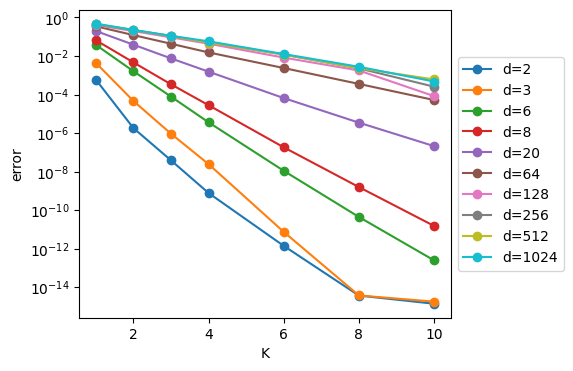
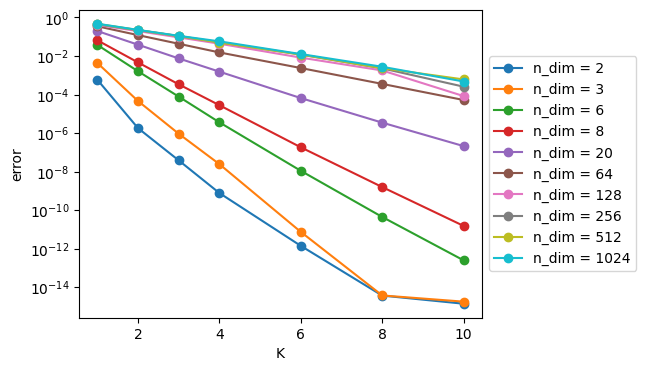
Built site for gh-pages

diff --git a/posts/2023-06-12-RVQ.html b/posts/2023-06-12-RVQ.html
@@ -3223,12 +3223,12 @@ if (outputEl) {{
 <span id="cb25-2"><a href="#cb25-2" aria-hidden="true" tabindex="-1"></a>fig <span class="op">=</span> plot_results(results, d_choices, cb_lengths, K_choices, vary_K<span class="op">=</span><span class="va">True</span>, log_xy<span class="op">=</span><span class="va">True</span>, log_z<span class="op">=</span><span class="va">True</span>, camera<span class="op">=</span>camera)</span>
 <span id="cb25-3"><a href="#cb25-3" aria-hidden="true" tabindex="-1"></a>fig.show()</span>
 <span id="cb25-4"><a href="#cb25-4" aria-hidden="true" tabindex="-1"></a></span>
-<span id="cb25-5"><a href="#cb25-5" aria-hidden="true" tabindex="-1"></a>fig, ax <span class="op">=</span> plt.subplots(figsize<span class="op">=</span>(<span class="dv">6</span>,<span class="dv">4</span>))</span>
+<span id="cb25-5"><a href="#cb25-5" aria-hidden="true" tabindex="-1"></a>fig, ax <span class="op">=</span> plt.subplots(figsize<span class="op">=</span>(<span class="fl">6.5</span>,<span class="dv">4</span>))</span>
 <span id="cb25-6"><a href="#cb25-6" aria-hidden="true" tabindex="-1"></a>ourdata <span class="op">=</span> results[:,<span class="op">-</span><span class="dv">1</span>,:] <span class="co"># max cb_len</span></span>
 <span id="cb25-7"><a href="#cb25-7" aria-hidden="true" tabindex="-1"></a><span class="cf">for</span> q1, d <span class="kw">in</span> <span class="bu">enumerate</span>(d_choices):</span>
 <span id="cb25-8"><a href="#cb25-8" aria-hidden="true" tabindex="-1"></a>    x <span class="op">=</span> np.array(K_choices)</span>
 <span id="cb25-9"><a href="#cb25-9" aria-hidden="true" tabindex="-1"></a>    y <span class="op">=</span> ourdata[q1]</span>
-<span id="cb25-10"><a href="#cb25-10" aria-hidden="true" tabindex="-1"></a>    ax.semilogy(x,y,<span class="st">'o-'</span>,label<span class="op">=</span><span class="ss">f"d=</span><span class="sc">{</span>d<span class="sc">}</span><span class="ss">"</span>)</span>
+<span id="cb25-10"><a href="#cb25-10" aria-hidden="true" tabindex="-1"></a>    ax.semilogy(x,y,<span class="st">'o-'</span>,label<span class="op">=</span><span class="ss">f"n_dim = </span><span class="sc">{</span>d<span class="sc">}</span><span class="ss">"</span>)</span>
 <span id="cb25-11"><a href="#cb25-11" aria-hidden="true" tabindex="-1"></a>    </span>
 <span id="cb25-12"><a href="#cb25-12" aria-hidden="true" tabindex="-1"></a>box <span class="op">=</span> ax.get_position()</span>
 <span id="cb25-13"><a href="#cb25-13" aria-hidden="true" tabindex="-1"></a>ax.set_position([box.x0, box.y0, box.width <span class="op">*</span> <span class="fl">0.8</span>, box.height])</span>
@@ -3243,9 +3243,9 @@ if (outputEl) {{
 <div id="fig-rvq-error-logz-varyk-1" class="quarto-figure quarto-figure-center anchored" style="flex-basis: 100.0%;justify-content: center;">
 <figure class="figure">
 
-<div>                            <div id="35af40aa-9de7-4355-9d39-2c97faacfc55" class="plotly-graph-div" style="height:400px; width:750px;"></div>            <script type="text/javascript">                require(["plotly"], function(Plotly) {                    window.PLOTLYENV=window.PLOTLYENV || {};                                    if (document.getElementById("35af40aa-9de7-4355-9d39-2c97faacfc55")) {                    Plotly.newPlot(                        "35af40aa-9de7-4355-9d39-2c97faacfc55",                        [{"x":[[1,2,3,4,6,8,10],[1,2,3,4,6,8,10],[1,2,3,4,6,8,10],[1,2,3,4,6,8,10],[1,2,3,4,6,8,10],[1,2,3,4,6,8,10],[1,2,3,4,6,8,10],[1,2,3,4,6,8,10],[1,2,3,4,6,8,10],[1,2,3,4,6,8,10]],"y":[[0.3010299956639812,0.3010299956639812,0.3010299956639812,0.3010299956639812,0.3010299956639812,0.3010299956639812,0.3010299956639812],[0.47712125471966244,0.47712125471966244,0.47712125471966244,0.47712125471966244,0.47712125471966244,0.47712125471966244,0.47712125471966244],[0.7781512503836436,0.7781512503836436,0.7781512503836436,0.7781512503836436,0.7781512503836436,0.7781512503836436,0.7781512503836436],[0.9030899869919435,0.9030899869919435,0.9030899869919435,0.9030899869919435,0.9030899869919435,0.9030899869919435,0.9030899869919435],[1.3010299956639813,1.3010299956639813,1.3010299956639813,1.3010299956639813,1.3010299956639813,1.3010299956639813,1.3010299956639813],[1.806179973983887,1.806179973983887,1.806179973983887,1.806179973983887,1.806179973983887,1.806179973983887,1.806179973983887],[2.1072099696478683,2.1072099696478683,2.1072099696478683,2.1072099696478683,2.1072099696478683,2.1072099696478683,2.1072099696478683],[2.4082399653118496,2.4082399653118496,2.4082399653118496,2.4082399653118496,2.4082399653118496,2.4082399653118496,2.4082399653118496],[2.709269960975831,2.709269960975831,2.709269960975831,2.709269960975831,2.709269960975831,2.709269960975831,2.709269960975831],[3.010299956639812,3.010299956639812,3.010299956639812,3.010299956639812,3.010299956639812,3.010299956639812,3.010299956639812]],"z":[[-3.224405,-5.73846,-7.4118648,-9.106539,-11.846527,-14.425459,-14.848204],[-2.3546593,-4.3316574,-6.0297394,-7.607898,-11.1222725,-14.419368,-14.740961],[-1.4203463,-2.7881258,-4.1049337,-5.4392023,-7.9532456,-10.347302,-12.598212],[-1.1800427,-2.330022,-3.4667091,-4.550867,-6.73431,-8.7964945,-10.812202],[-0.70073026,-1.4105304,-2.12281,-2.810377,-4.1804338,-5.4548035,-6.6720243],[-0.4546547,-0.9143086,-1.3624536,-1.8124374,-2.6217163,-3.4454503,-4.280762],[-0.3907326,-0.7049824,-1.0309411,-1.3590288,-2.0810802,-2.7485373,-4.0779834],[-0.35315803,-0.6559364,-0.96061885,-1.2852163,-1.9224304,-2.6384947,-3.5889297],[-0.33344215,-0.65092665,-0.96849597,-1.2986574,-1.923794,-2.6294942,-3.2139428],[-0.3232545,-0.64443374,-0.9511528,-1.237851,-1.8978,-2.5570276,-3.3207188]],"type":"surface"}],                        {"template":{"data":{"barpolar":[{"marker":{"line":{"color":"rgb(17,17,17)","width":0.5},"pattern":{"fillmode":"overlay","size":10,"solidity":0.2}},"type":"barpolar"}],"bar":[{"error_x":{"color":"#f2f5fa"},"error_y":{"color":"#f2f5fa"},"marker":{"line":{"color":"rgb(17,17,17)","width":0.5},"pattern":{"fillmode":"overlay","size":10,"solidity":0.2}},"type":"bar"}],"carpet":[{"aaxis":{"endlinecolor":"#A2B1C6","gridcolor":"#506784","linecolor":"#506784","minorgridcolor":"#506784","startlinecolor":"#A2B1C6"},"baxis":{"endlinecolor":"#A2B1C6","gridcolor":"#506784","linecolor":"#506784","minorgridcolor":"#506784","startlinecolor":"#A2B1C6"},"type":"carpet"}],"choropleth":[{"colorbar":{"outlinewidth":0,"ticks":""},"type":"choropleth"}],"contourcarpet":[{"colorbar":{"outlinewidth":0,"ticks":""},"type":"contourcarpet"}],"contour":[{"colorbar":{"outlinewidth":0,"ticks":""},"colorscale":[[0.0,"#0d0887"],[0.1111111111111111,"#46039f"],[0.2222222222222222,"#7201a8"],[0.3333333333333333,"#9c179e"],[0.4444444444444444,"#bd3786"],[0.5555555555555556,"#d8576b"],[0.6666666666666666,"#ed7953"],[0.7777777777777778,"#fb9f3a"],[0.8888888888888888,"#fdca26"],[1.0,"#f0f921"]],"type":"contour"}],"heatmapgl":[{"colorbar":{"outlinewidth":0,"ticks":""},"colorscale":[[0.0,"#0d0887"],[0.1111111111111111,"#46039f"],[0.2222222222222222,"#7201a8"],[0.3333333333333333,"#9c179e"],[0.4444444444444444,"#bd3786"],[0.5555555555555556,"#d8576b"],[0.6666666666666666,"#ed7953"],[0.7777777777777778,"#fb9f3a"],[0.8888888888888888,"#fdca26"],[1.0,"#f0f921"]],"type":"heatmapgl"}],"heatmap":[{"colorbar":{"outlinewidth":0,"ticks":""},"colorscale":[[0.0,"#0d0887"],[0.1111111111111111,"#46039f"],[0.2222222222222222,"#7201a8"],[0.3333333333333333,"#9c179e"],[0.4444444444444444,"#bd3786"],[0.5555555555555556,"#d8576b"],[0.6666666666666666,"#ed7953"],[0.7777777777777778,"#fb9f3a"],[0.8888888888888888,"#fdca26"],[1.0,"#f0f921"]],"type":"heatmap"}],"histogram2dcontour":[{"colorbar":{"outlinewidth":0,"ticks":""},"colorscale":[[0.0,"#0d0887"],[0.1111111111111111,"#46039f"],[0.2222222222222222,"#7201a8"],[0.3333333333333333,"#9c179e"],[0.4444444444444444,"#bd3786"],[0.5555555555555556,"#d8576b"],[0.6666666666666666,"#ed7953"],[0.7777777777777778,"#fb9f3a"],[0.8888888888888888,"#fdca26"],[1.0,"#f0f921"]],"type":"histogram2dcontour"}],"histogram2d":[{"colorbar":{"outlinewidth":0,"ticks":""},"colorscale":[[0.0,"#0d0887"],[0.1111111111111111,"#46039f"],[0.2222222222222222,"#7201a8"],[0.3333333333333333,"#9c179e"],[0.4444444444444444,"#bd3786"],[0.5555555555555556,"#d8576b"],[0.6666666666666666,"#ed7953"],[0.7777777777777778,"#fb9f3a"],[0.8888888888888888,"#fdca26"],[1.0,"#f0f921"]],"type":"histogram2d"}],"histogram":[{"marker":{"pattern":{"fillmode":"overlay","size":10,"solidity":0.2}},"type":"histogram"}],"mesh3d":[{"colorbar":{"outlinewidth":0,"ticks":""},"type":"mesh3d"}],"parcoords":[{"line":{"colorbar":{"outlinewidth":0,"ticks":""}},"type":"parcoords"}],"pie":[{"automargin":true,"type":"pie"}],"scatter3d":[{"line":{"colorbar":{"outlinewidth":0,"ticks":""}},"marker":{"colorbar":{"outlinewidth":0,"ticks":""}},"type":"scatter3d"}],"scattercarpet":[{"marker":{"colorbar":{"outlinewidth":0,"ticks":""}},"type":"scattercarpet"}],"scattergeo":[{"marker":{"colorbar":{"outlinewidth":0,"ticks":""}},"type":"scattergeo"}],"scattergl":[{"marker":{"line":{"color":"#283442"}},"type":"scattergl"}],"scattermapbox":[{"marker":{"colorbar":{"outlinewidth":0,"ticks":""}},"type":"scattermapbox"}],"scatterpolargl":[{"marker":{"colorbar":{"outlinewidth":0,"ticks":""}},"type":"scatterpolargl"}],"scatterpolar":[{"marker":{"colorbar":{"outlinewidth":0,"ticks":""}},"type":"scatterpolar"}],"scatter":[{"marker":{"line":{"color":"#283442"}},"type":"scatter"}],"scatterternary":[{"marker":{"colorbar":{"outlinewidth":0,"ticks":""}},"type":"scatterternary"}],"surface":[{"colorbar":{"outlinewidth":0,"ticks":""},"colorscale":[[0.0,"#0d0887"],[0.1111111111111111,"#46039f"],[0.2222222222222222,"#7201a8"],[0.3333333333333333,"#9c179e"],[0.4444444444444444,"#bd3786"],[0.5555555555555556,"#d8576b"],[0.6666666666666666,"#ed7953"],[0.7777777777777778,"#fb9f3a"],[0.8888888888888888,"#fdca26"],[1.0,"#f0f921"]],"type":"surface"}],"table":[{"cells":{"fill":{"color":"#506784"},"line":{"color":"rgb(17,17,17)"}},"header":{"fill":{"color":"#2a3f5f"},"line":{"color":"rgb(17,17,17)"}},"type":"table"}]},"layout":{"annotationdefaults":{"arrowcolor":"#f2f5fa","arrowhead":0,"arrowwidth":1},"autotypenumbers":"strict","coloraxis":{"colorbar":{"outlinewidth":0,"ticks":""}},"colorscale":{"diverging":[[0,"#8e0152"],[0.1,"#c51b7d"],[0.2,"#de77ae"],[0.3,"#f1b6da"],[0.4,"#fde0ef"],[0.5,"#f7f7f7"],[0.6,"#e6f5d0"],[0.7,"#b8e186"],[0.8,"#7fbc41"],[0.9,"#4d9221"],[1,"#276419"]],"sequential":[[0.0,"#0d0887"],[0.1111111111111111,"#46039f"],[0.2222222222222222,"#7201a8"],[0.3333333333333333,"#9c179e"],[0.4444444444444444,"#bd3786"],[0.5555555555555556,"#d8576b"],[0.6666666666666666,"#ed7953"],[0.7777777777777778,"#fb9f3a"],[0.8888888888888888,"#fdca26"],[1.0,"#f0f921"]],"sequentialminus":[[0.0,"#0d0887"],[0.1111111111111111,"#46039f"],[0.2222222222222222,"#7201a8"],[0.3333333333333333,"#9c179e"],[0.4444444444444444,"#bd3786"],[0.5555555555555556,"#d8576b"],[0.6666666666666666,"#ed7953"],[0.7777777777777778,"#fb9f3a"],[0.8888888888888888,"#fdca26"],[1.0,"#f0f921"]]},"colorway":["#636efa","#EF553B","#00cc96","#ab63fa","#FFA15A","#19d3f3","#FF6692","#B6E880","#FF97FF","#FECB52"],"font":{"color":"#f2f5fa"},"geo":{"bgcolor":"rgb(17,17,17)","lakecolor":"rgb(17,17,17)","landcolor":"rgb(17,17,17)","showlakes":true,"showland":true,"subunitcolor":"#506784"},"hoverlabel":{"align":"left"},"hovermode":"closest","mapbox":{"style":"dark"},"paper_bgcolor":"rgb(17,17,17)","plot_bgcolor":"rgb(17,17,17)","polar":{"angularaxis":{"gridcolor":"#506784","linecolor":"#506784","ticks":""},"bgcolor":"rgb(17,17,17)","radialaxis":{"gridcolor":"#506784","linecolor":"#506784","ticks":""}},"scene":{"xaxis":{"backgroundcolor":"rgb(17,17,17)","gridcolor":"#506784","gridwidth":2,"linecolor":"#506784","showbackground":true,"ticks":"","zerolinecolor":"#C8D4E3"},"yaxis":{"backgroundcolor":"rgb(17,17,17)","gridcolor":"#506784","gridwidth":2,"linecolor":"#506784","showbackground":true,"ticks":"","zerolinecolor":"#C8D4E3"},"zaxis":{"backgroundcolor":"rgb(17,17,17)","gridcolor":"#506784","gridwidth":2,"linecolor":"#506784","showbackground":true,"ticks":"","zerolinecolor":"#C8D4E3"}},"shapedefaults":{"line":{"color":"#f2f5fa"}},"sliderdefaults":{"bgcolor":"#C8D4E3","bordercolor":"rgb(17,17,17)","borderwidth":1,"tickwidth":0},"ternary":{"aaxis":{"gridcolor":"#506784","linecolor":"#506784","ticks":""},"baxis":{"gridcolor":"#506784","linecolor":"#506784","ticks":""},"bgcolor":"rgb(17,17,17)","caxis":{"gridcolor":"#506784","linecolor":"#506784","ticks":""}},"title":{"x":0.05},"updatemenudefaults":{"bgcolor":"#506784","borderwidth":0},"xaxis":{"automargin":true,"gridcolor":"#283442","linecolor":"#506784","ticks":"","title":{"standoff":15},"zerolinecolor":"#283442","zerolinewidth":2},"yaxis":{"automargin":true,"gridcolor":"#283442","linecolor":"#506784","ticks":"","title":{"standoff":15},"zerolinecolor":"#283442","zerolinewidth":2}}},"scene":{"xaxis":{"title":{"text":"K"}},"yaxis":{"title":{"text":"log10( n_dim )"}},"zaxis":{"title":{"text":"log10( error )"}},"camera":{"up":{"x":0,"y":0,"z":1},"center":{"x":-0.1,"y":0,"z":-0.22},"eye":{"x":0.3,"y":-1.8,"z":1}}},"margin":{"l":20,"r":20,"b":10,"t":20,"pad":4},"autosize":false,"width":750,"height":400},                        {"responsive": true}                    ).then(function(){
+<div>                            <div id="dee7f99a-2db1-487c-8221-55d97cc1a24a" class="plotly-graph-div" style="height:400px; width:750px;"></div>            <script type="text/javascript">                require(["plotly"], function(Plotly) {                    window.PLOTLYENV=window.PLOTLYENV || {};                                    if (document.getElementById("dee7f99a-2db1-487c-8221-55d97cc1a24a")) {                    Plotly.newPlot(                        "dee7f99a-2db1-487c-8221-55d97cc1a24a",                        [{"x":[[1,2,3,4,6,8,10],[1,2,3,4,6,8,10],[1,2,3,4,6,8,10],[1,2,3,4,6,8,10],[1,2,3,4,6,8,10],[1,2,3,4,6,8,10],[1,2,3,4,6,8,10],[1,2,3,4,6,8,10],[1,2,3,4,6,8,10],[1,2,3,4,6,8,10]],"y":[[0.3010299956639812,0.3010299956639812,0.3010299956639812,0.3010299956639812,0.3010299956639812,0.3010299956639812,0.3010299956639812],[0.47712125471966244,0.47712125471966244,0.47712125471966244,0.47712125471966244,0.47712125471966244,0.47712125471966244,0.47712125471966244],[0.7781512503836436,0.7781512503836436,0.7781512503836436,0.7781512503836436,0.7781512503836436,0.7781512503836436,0.7781512503836436],[0.9030899869919435,0.9030899869919435,0.9030899869919435,0.9030899869919435,0.9030899869919435,0.9030899869919435,0.9030899869919435],[1.3010299956639813,1.3010299956639813,1.3010299956639813,1.3010299956639813,1.3010299956639813,1.3010299956639813,1.3010299956639813],[1.806179973983887,1.806179973983887,1.806179973983887,1.806179973983887,1.806179973983887,1.806179973983887,1.806179973983887],[2.1072099696478683,2.1072099696478683,2.1072099696478683,2.1072099696478683,2.1072099696478683,2.1072099696478683,2.1072099696478683],[2.4082399653118496,2.4082399653118496,2.4082399653118496,2.4082399653118496,2.4082399653118496,2.4082399653118496,2.4082399653118496],[2.709269960975831,2.709269960975831,2.709269960975831,2.709269960975831,2.709269960975831,2.709269960975831,2.709269960975831],[3.010299956639812,3.010299956639812,3.010299956639812,3.010299956639812,3.010299956639812,3.010299956639812,3.010299956639812]],"z":[[-3.224405,-5.73846,-7.4118648,-9.106539,-11.846527,-14.425459,-14.848204],[-2.3546593,-4.3316574,-6.0297394,-7.607898,-11.1222725,-14.419368,-14.740961],[-1.4203463,-2.7881258,-4.1049337,-5.4392023,-7.9532456,-10.347302,-12.598212],[-1.1800427,-2.330022,-3.4667091,-4.550867,-6.73431,-8.7964945,-10.812202],[-0.70073026,-1.4105304,-2.12281,-2.810377,-4.1804338,-5.4548035,-6.6720243],[-0.4546547,-0.9143086,-1.3624536,-1.8124374,-2.6217163,-3.4454503,-4.280762],[-0.3907326,-0.7049824,-1.0309411,-1.3590288,-2.0810802,-2.7485373,-4.0779834],[-0.35315803,-0.6559364,-0.96061885,-1.2852163,-1.9224304,-2.6384947,-3.5889297],[-0.33344215,-0.65092665,-0.96849597,-1.2986574,-1.923794,-2.6294942,-3.2139428],[-0.3232545,-0.64443374,-0.9511528,-1.237851,-1.8978,-2.5570276,-3.3207188]],"type":"surface"}],                        {"template":{"data":{"barpolar":[{"marker":{"line":{"color":"rgb(17,17,17)","width":0.5},"pattern":{"fillmode":"overlay","size":10,"solidity":0.2}},"type":"barpolar"}],"bar":[{"error_x":{"color":"#f2f5fa"},"error_y":{"color":"#f2f5fa"},"marker":{"line":{"color":"rgb(17,17,17)","width":0.5},"pattern":{"fillmode":"overlay","size":10,"solidity":0.2}},"type":"bar"}],"carpet":[{"aaxis":{"endlinecolor":"#A2B1C6","gridcolor":"#506784","linecolor":"#506784","minorgridcolor":"#506784","startlinecolor":"#A2B1C6"},"baxis":{"endlinecolor":"#A2B1C6","gridcolor":"#506784","linecolor":"#506784","minorgridcolor":"#506784","startlinecolor":"#A2B1C6"},"type":"carpet"}],"choropleth":[{"colorbar":{"outlinewidth":0,"ticks":""},"type":"choropleth"}],"contourcarpet":[{"colorbar":{"outlinewidth":0,"ticks":""},"type":"contourcarpet"}],"contour":[{"colorbar":{"outlinewidth":0,"ticks":""},"colorscale":[[0.0,"#0d0887"],[0.1111111111111111,"#46039f"],[0.2222222222222222,"#7201a8"],[0.3333333333333333,"#9c179e"],[0.4444444444444444,"#bd3786"],[0.5555555555555556,"#d8576b"],[0.6666666666666666,"#ed7953"],[0.7777777777777778,"#fb9f3a"],[0.8888888888888888,"#fdca26"],[1.0,"#f0f921"]],"type":"contour"}],"heatmapgl":[{"colorbar":{"outlinewidth":0,"ticks":""},"colorscale":[[0.0,"#0d0887"],[0.1111111111111111,"#46039f"],[0.2222222222222222,"#7201a8"],[0.3333333333333333,"#9c179e"],[0.4444444444444444,"#bd3786"],[0.5555555555555556,"#d8576b"],[0.6666666666666666,"#ed7953"],[0.7777777777777778,"#fb9f3a"],[0.8888888888888888,"#fdca26"],[1.0,"#f0f921"]],"type":"heatmapgl"}],"heatmap":[{"colorbar":{"outlinewidth":0,"ticks":""},"colorscale":[[0.0,"#0d0887"],[0.1111111111111111,"#46039f"],[0.2222222222222222,"#7201a8"],[0.3333333333333333,"#9c179e"],[0.4444444444444444,"#bd3786"],[0.5555555555555556,"#d8576b"],[0.6666666666666666,"#ed7953"],[0.7777777777777778,"#fb9f3a"],[0.8888888888888888,"#fdca26"],[1.0,"#f0f921"]],"type":"heatmap"}],"histogram2dcontour":[{"colorbar":{"outlinewidth":0,"ticks":""},"colorscale":[[0.0,"#0d0887"],[0.1111111111111111,"#46039f"],[0.2222222222222222,"#7201a8"],[0.3333333333333333,"#9c179e"],[0.4444444444444444,"#bd3786"],[0.5555555555555556,"#d8576b"],[0.6666666666666666,"#ed7953"],[0.7777777777777778,"#fb9f3a"],[0.8888888888888888,"#fdca26"],[1.0,"#f0f921"]],"type":"histogram2dcontour"}],"histogram2d":[{"colorbar":{"outlinewidth":0,"ticks":""},"colorscale":[[0.0,"#0d0887"],[0.1111111111111111,"#46039f"],[0.2222222222222222,"#7201a8"],[0.3333333333333333,"#9c179e"],[0.4444444444444444,"#bd3786"],[0.5555555555555556,"#d8576b"],[0.6666666666666666,"#ed7953"],[0.7777777777777778,"#fb9f3a"],[0.8888888888888888,"#fdca26"],[1.0,"#f0f921"]],"type":"histogram2d"}],"histogram":[{"marker":{"pattern":{"fillmode":"overlay","size":10,"solidity":0.2}},"type":"histogram"}],"mesh3d":[{"colorbar":{"outlinewidth":0,"ticks":""},"type":"mesh3d"}],"parcoords":[{"line":{"colorbar":{"outlinewidth":0,"ticks":""}},"type":"parcoords"}],"pie":[{"automargin":true,"type":"pie"}],"scatter3d":[{"line":{"colorbar":{"outlinewidth":0,"ticks":""}},"marker":{"colorbar":{"outlinewidth":0,"ticks":""}},"type":"scatter3d"}],"scattercarpet":[{"marker":{"colorbar":{"outlinewidth":0,"ticks":""}},"type":"scattercarpet"}],"scattergeo":[{"marker":{"colorbar":{"outlinewidth":0,"ticks":""}},"type":"scattergeo"}],"scattergl":[{"marker":{"line":{"color":"#283442"}},"type":"scattergl"}],"scattermapbox":[{"marker":{"colorbar":{"outlinewidth":0,"ticks":""}},"type":"scattermapbox"}],"scatterpolargl":[{"marker":{"colorbar":{"outlinewidth":0,"ticks":""}},"type":"scatterpolargl"}],"scatterpolar":[{"marker":{"colorbar":{"outlinewidth":0,"ticks":""}},"type":"scatterpolar"}],"scatter":[{"marker":{"line":{"color":"#283442"}},"type":"scatter"}],"scatterternary":[{"marker":{"colorbar":{"outlinewidth":0,"ticks":""}},"type":"scatterternary"}],"surface":[{"colorbar":{"outlinewidth":0,"ticks":""},"colorscale":[[0.0,"#0d0887"],[0.1111111111111111,"#46039f"],[0.2222222222222222,"#7201a8"],[0.3333333333333333,"#9c179e"],[0.4444444444444444,"#bd3786"],[0.5555555555555556,"#d8576b"],[0.6666666666666666,"#ed7953"],[0.7777777777777778,"#fb9f3a"],[0.8888888888888888,"#fdca26"],[1.0,"#f0f921"]],"type":"surface"}],"table":[{"cells":{"fill":{"color":"#506784"},"line":{"color":"rgb(17,17,17)"}},"header":{"fill":{"color":"#2a3f5f"},"line":{"color":"rgb(17,17,17)"}},"type":"table"}]},"layout":{"annotationdefaults":{"arrowcolor":"#f2f5fa","arrowhead":0,"arrowwidth":1},"autotypenumbers":"strict","coloraxis":{"colorbar":{"outlinewidth":0,"ticks":""}},"colorscale":{"diverging":[[0,"#8e0152"],[0.1,"#c51b7d"],[0.2,"#de77ae"],[0.3,"#f1b6da"],[0.4,"#fde0ef"],[0.5,"#f7f7f7"],[0.6,"#e6f5d0"],[0.7,"#b8e186"],[0.8,"#7fbc41"],[0.9,"#4d9221"],[1,"#276419"]],"sequential":[[0.0,"#0d0887"],[0.1111111111111111,"#46039f"],[0.2222222222222222,"#7201a8"],[0.3333333333333333,"#9c179e"],[0.4444444444444444,"#bd3786"],[0.5555555555555556,"#d8576b"],[0.6666666666666666,"#ed7953"],[0.7777777777777778,"#fb9f3a"],[0.8888888888888888,"#fdca26"],[1.0,"#f0f921"]],"sequentialminus":[[0.0,"#0d0887"],[0.1111111111111111,"#46039f"],[0.2222222222222222,"#7201a8"],[0.3333333333333333,"#9c179e"],[0.4444444444444444,"#bd3786"],[0.5555555555555556,"#d8576b"],[0.6666666666666666,"#ed7953"],[0.7777777777777778,"#fb9f3a"],[0.8888888888888888,"#fdca26"],[1.0,"#f0f921"]]},"colorway":["#636efa","#EF553B","#00cc96","#ab63fa","#FFA15A","#19d3f3","#FF6692","#B6E880","#FF97FF","#FECB52"],"font":{"color":"#f2f5fa"},"geo":{"bgcolor":"rgb(17,17,17)","lakecolor":"rgb(17,17,17)","landcolor":"rgb(17,17,17)","showlakes":true,"showland":true,"subunitcolor":"#506784"},"hoverlabel":{"align":"left"},"hovermode":"closest","mapbox":{"style":"dark"},"paper_bgcolor":"rgb(17,17,17)","plot_bgcolor":"rgb(17,17,17)","polar":{"angularaxis":{"gridcolor":"#506784","linecolor":"#506784","ticks":""},"bgcolor":"rgb(17,17,17)","radialaxis":{"gridcolor":"#506784","linecolor":"#506784","ticks":""}},"scene":{"xaxis":{"backgroundcolor":"rgb(17,17,17)","gridcolor":"#506784","gridwidth":2,"linecolor":"#506784","showbackground":true,"ticks":"","zerolinecolor":"#C8D4E3"},"yaxis":{"backgroundcolor":"rgb(17,17,17)","gridcolor":"#506784","gridwidth":2,"linecolor":"#506784","showbackground":true,"ticks":"","zerolinecolor":"#C8D4E3"},"zaxis":{"backgroundcolor":"rgb(17,17,17)","gridcolor":"#506784","gridwidth":2,"linecolor":"#506784","showbackground":true,"ticks":"","zerolinecolor":"#C8D4E3"}},"shapedefaults":{"line":{"color":"#f2f5fa"}},"sliderdefaults":{"bgcolor":"#C8D4E3","bordercolor":"rgb(17,17,17)","borderwidth":1,"tickwidth":0},"ternary":{"aaxis":{"gridcolor":"#506784","linecolor":"#506784","ticks":""},"baxis":{"gridcolor":"#506784","linecolor":"#506784","ticks":""},"bgcolor":"rgb(17,17,17)","caxis":{"gridcolor":"#506784","linecolor":"#506784","ticks":""}},"title":{"x":0.05},"updatemenudefaults":{"bgcolor":"#506784","borderwidth":0},"xaxis":{"automargin":true,"gridcolor":"#283442","linecolor":"#506784","ticks":"","title":{"standoff":15},"zerolinecolor":"#283442","zerolinewidth":2},"yaxis":{"automargin":true,"gridcolor":"#283442","linecolor":"#506784","ticks":"","title":{"standoff":15},"zerolinecolor":"#283442","zerolinewidth":2}}},"scene":{"xaxis":{"title":{"text":"K"}},"yaxis":{"title":{"text":"log10( n_dim )"}},"zaxis":{"title":{"text":"log10( error )"}},"camera":{"up":{"x":0,"y":0,"z":1},"center":{"x":-0.1,"y":0,"z":-0.22},"eye":{"x":0.3,"y":-1.8,"z":1}}},"margin":{"l":20,"r":20,"b":10,"t":20,"pad":4},"autosize":false,"width":750,"height":400},                        {"responsive": true}                    ).then(function(){
                             
-var gd = document.getElementById('35af40aa-9de7-4355-9d39-2c97faacfc55');
+var gd = document.getElementById('dee7f99a-2db1-487c-8221-55d97cc1a24a');
 var x = new MutationObserver(function (mutations, observer) {{
         var display = window.getComputedStyle(gd).display;
         if (!display || display === 'none') {{

diff --git a/index.html b/index.html
@@ -176,7 +176,7 @@ ul.task-list li input[type="checkbox"] {
 
 <div class="quarto-listing quarto-listing-container-default" id="listing-listing">
 <div class="list quarto-listing-default">
-<div class="quarto-post image-right" data-index="0" data-categories="compression,ssl" data-listing-date-sort="1686546000000" data-listing-file-modified-sort="1686755937741" data-listing-date-modified-sort="NaN" data-listing-reading-time-sort="14">
+<div class="quarto-post image-right" data-index="0" data-categories="compression,ssl" data-listing-date-sort="1686546000000" data-listing-file-modified-sort="1686756035829" data-listing-date-modified-sort="NaN" data-listing-reading-time-sort="14">
 <div class="thumbnail">
 <p><a href="./posts/2023-06-12-RVQ.html"> <img src="./posts/images/rvq_image.png" class="thumbnail-image"> </a></p>
 </div>
